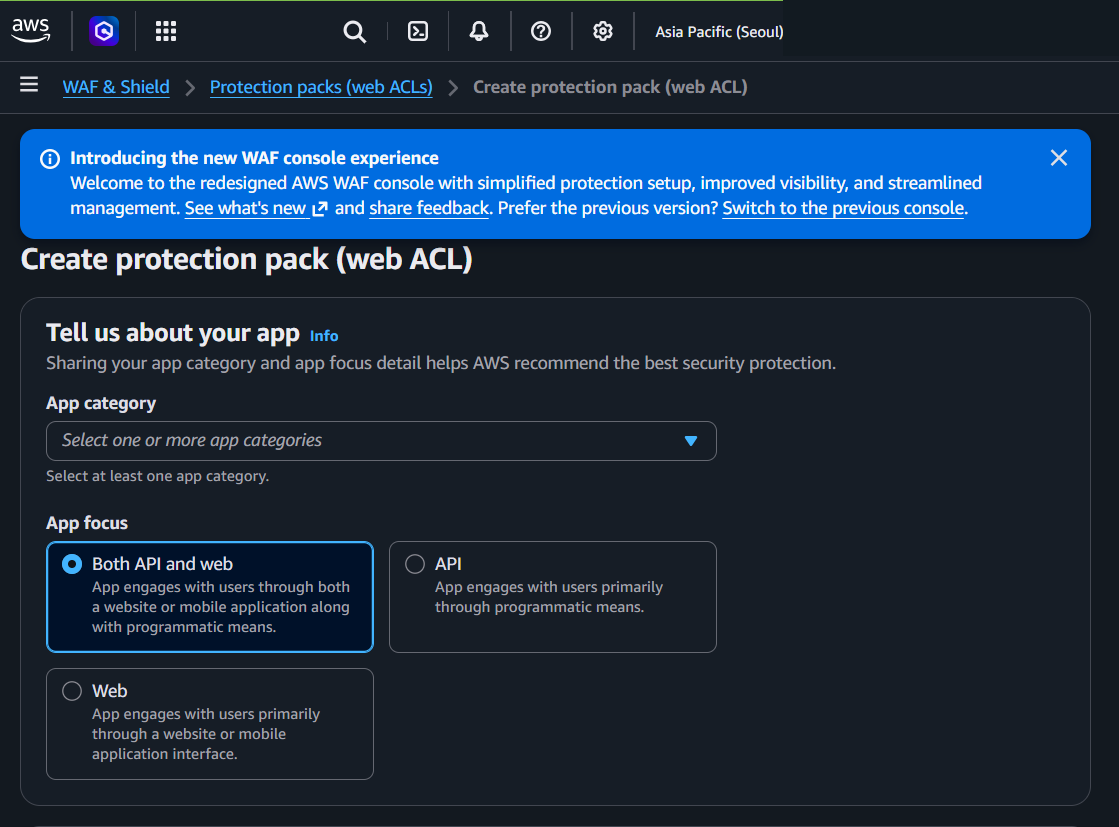
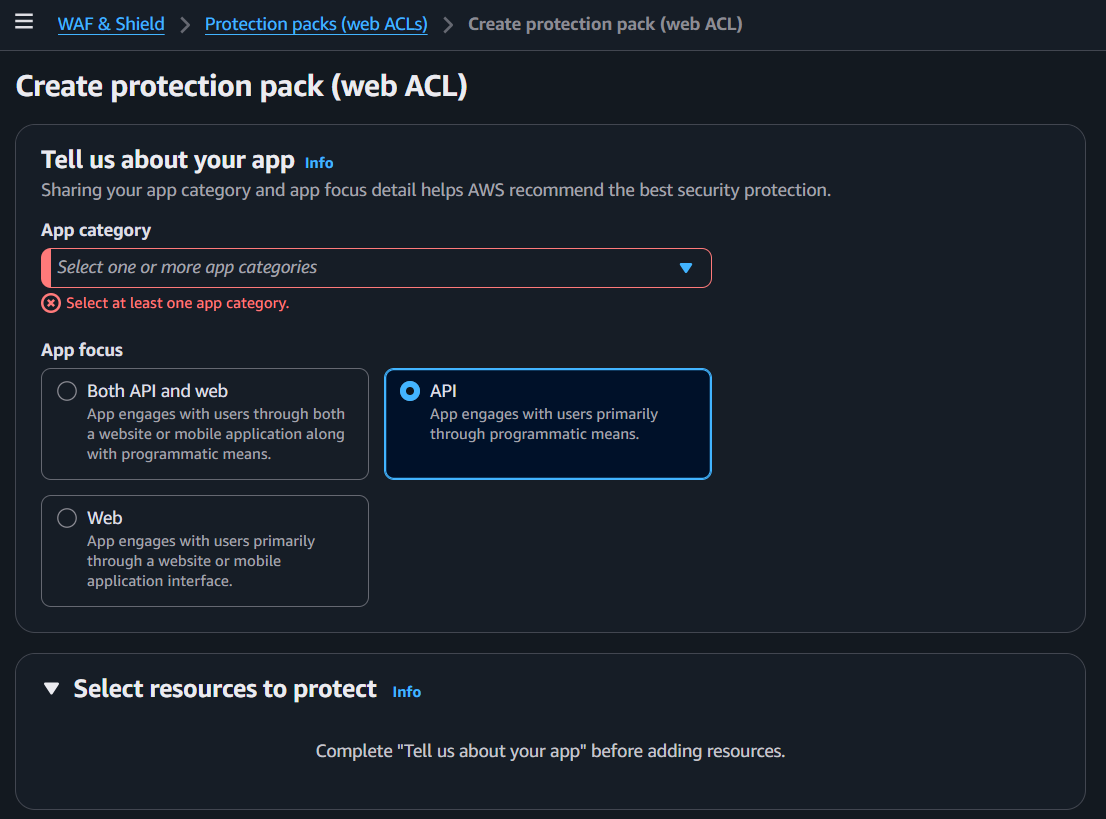
docs(study): update waf and storage study materials

diff --git a/aws101/aws_services_kiro/21_amazon_cloudfront.md b/aws101/aws_services_kiro/21_amazon_cloudfront.md
@@ -1,33 +1,154 @@
-# Amazon CloudFront
+# Amazon CloudFront - AWS Console Guide
 
-## 1. Definition
+## Official Documentation
+- [Amazon CloudFront Documentation](https://docs.aws.amazon.com/cloudfront/)
+- [CloudFront Pricing](https://aws.amazon.com/cloudfront/pricing/)
 
-## 2. Category / Where It Fits
+## What It Is
+**CloudFront** is AWS's CDN (Content Delivery Network). It caches your content at 600+ edge locations worldwide so users get responses from the nearest location instead of your origin server far away.
 
-## 3. When To Use It
+CloudFront is a **global** service (not regional).
 
-## 4. What It Does
+## Console Access
+- AWS Console → CloudFront → Distributions
+- Breadcrumb: CloudFront > Distributions
 
-## 5. What AWS Manages vs What You Manage
-### AWS Manages
-- 
-### You Manage
-- 
+---
 
-## 6. Console Creation Considerations
+## How CloudFront Works
 
-## 7. Cost Shape
+```
+User in Seoul → CloudFront Edge (Seoul) → Origin (S3, ALB, EC2, etc.)
+                 ↑ cached here              ↑ source of truth
+                 fast (nearby)              only hit on cache miss
+```
 
-## 8. Availability / Downtime Notes
+1. User requests content (e.g., image, HTML, API response)
+2. Request goes to nearest CloudFront edge location
+3. **Cache hit**: edge has it → return immediately (fast)
+4. **Cache miss**: edge fetches from origin → caches it → returns to user
+5. Next request from same region → served from cache
 
-## 9. Similar Services and Differences
+---
 
-## 10. Related Services
+## Common Pattern: S3 Static Website + CloudFront
 
-## 11. Simple Example
+The standard way to host static websites (React, Vue, Next.js static export, plain HTML) on AWS:
 
-## 12. Common Mistakes
+```
+Upload to S3 → CloudFront distribution → Users worldwide
+(origin)        (CDN + HTTPS + caching)    (fast access)
+```
 
-## 13. One-Line Summary
+### Why not just use S3 directly?
 
-## 14. Official AWS Docs
+| | S3 alone | S3 + CloudFront |
+|---|---------|----------------|
+| **Speed** | Single region, far users = slow | 600+ edge locations = fast |
+| **HTTPS** | S3 website endpoint = HTTP only | ✅ Free HTTPS with ACM certificate |
+| **Custom domain** | Complicated | Easy (Route 53 + ACM) |
+| **Caching** | None | Edge caching, reduces S3 requests + cost |
+| **Security** | Must make bucket public | OAC — bucket stays private, only CloudFront can access |
+
+### OAC (Origin Access Control)
+
+```
+Without OAC:  S3 bucket must be public     ← bad, anyone can access S3 directly
+With OAC:     S3 bucket stays private      ← good
+              Only CloudFront can read it
+              Users can't bypass CloudFront to hit S3 directly
+```
+
+OAC is the recommended way to connect CloudFront to S3. It replaces the older OAI (Origin Access Identity).
+
+---
+
+## Origin Types
+
+CloudFront can serve content from multiple origin types:
+
+| Origin | Use case |
+|--------|----------|
+| **S3 bucket** | Static files, images, videos, website hosting |
+| **ALB** | Dynamic web apps, APIs |
+| **EC2** | Custom web server (must be public or via ALB) |
+| **API Gateway** | REST/HTTP APIs |
+| **MediaStore / MediaPackage** | Video streaming |
+| **Custom origin (any HTTP server)** | On-premises server, external URL |
+
+---
+
+## Key Concepts
+
+### Distribution
+- The main CloudFront resource — a configuration that tells CloudFront where to get content and how to serve it
+- Each distribution gets a domain: `d1234abcd.cloudfront.net`
+- Can map to custom domain via Route 53 + ACM certificate
+
+### TTL (Time To Live)
+- How long CloudFront caches content at the edge before checking the origin again
+- Default: 24 hours
+- Short TTL (e.g., 60s) = fresher content, more origin requests
+- Long TTL (e.g., 7 days) = faster, cheaper, but stale content risk
+- Can invalidate cache manually (costs per invalidation path)
+
+### Cache Behaviors
+- Rules that define how CloudFront handles different URL patterns
+- Example: `/api/*` → forward to ALB (no cache), `/images/*` → cache from S3 (long TTL)
+
+### Edge Locations vs Regional Edge Caches
+- **Edge locations** (600+) — closest to users, first cache layer
+- **Regional edge caches** (13) — between edge and origin, second cache layer for less popular content
+
+---
+
+## CloudFront vs ElastiCache
+
+| | CloudFront | ElastiCache |
+|---|-----------|-------------|
+| **What** | CDN — caches HTTP responses at edge | In-memory cache inside your VPC |
+| **Where** | Between user and your server | Between your app and your DB |
+| **Caches** | Static files, API responses, web pages | DB query results, sessions, computed data |
+| **For** | End users (reduce latency) | Application (reduce DB load) |
+
+---
+
+## Pricing
+
+**Source:** [CloudFront Pricing](https://aws.amazon.com/cloudfront/pricing/)
+
+- **Data transfer out to internet**: $0.085/GB (first 10 TB/month, US/Europe)
+- **HTTP requests**: $0.0075/10K requests
+- **HTTPS requests**: $0.01/10K requests
+- **Free tier**: 1 TB data transfer out + 10M requests/month (always free, not 12-month)
+
+Additional costs:
+- Cache invalidation: first 1,000 paths/month free, then $0.005/path
+- Real-time logs: per log line
+- CloudFront Functions / Lambda@Edge: per request + compute
+
+---
+
+## Precautions
+
+### ⚠ MAIN PRECAUTION: Cache Invalidation Takes Time and Costs Money
+- If you update content at origin, CloudFront still serves old cached version until TTL expires
+- Manual invalidation: `/*` invalidates everything but costs per path
+- Better approach: use versioned file names (e.g., `app.v2.js`) so new URL = new cache
+
+### 1. Use OAC for S3 Origins
+- Never make S3 bucket public just for CloudFront
+- OAC keeps bucket private, only CloudFront can access
+
+### 2. Always Use HTTPS
+- Free ACM certificate for custom domains
+- Redirect HTTP → HTTPS in CloudFront settings
+
+### 3. Don't Cache Everything
+- Static assets (images, CSS, JS) → cache aggressively
+- API responses → cache carefully or not at all (depends on data freshness needs)
+- Authenticated content → usually don't cache
+
+### 4. CloudFront is Global, WAF Scope Matters
+- To attach WAF to CloudFront, the Web ACL must be created in **us-east-1** (Global scope)
+- Regional Web ACLs (for ALB) won't work with CloudFront

diff --git a/aws101/aws_services_kiro/18_aws_waf.md b/aws101/aws_services_kiro/18_aws_waf.md
@@ -44,38 +44,62 @@ While Shield stops DDoS volume floods, WAF inspects the **content** of each requ
 
 ## Create Protection Pack (Web ACL) - Console Flow
 
-![Create Protection Pack - App Info](../images/aws_console/waf1.png)
+> Note: AWS recently redesigned the WAF console. It now uses a "protection pack" wizard that guides you through app profiling → resource selection → rule configuration.
 
-### Tell us about your app
-- Sharing app category and focus helps AWS recommend the best security protection
+### Step 1: Tell us about your app
 
-**App category** — Select one or more app categories (dropdown)
+![WAF - Tell us about your app, App focus](../images/aws_console/waf1.png)
 
-**App focus (3 options):**
-- **Both API and web** (default) — Website/mobile app + programmatic access
-- **API** — Primarily programmatic access
-- **Web** — Primarily website or mobile app interface
+**App category** (required, multi-select dropdown):
 
-![Create Protection Pack - Resources and Protections](../images/aws_console/waf2.png)
+![WAF - App category dropdown options](../images/aws_console/waf2.png)
 
-### Select resources to protect (expandable)
-- Choose which AWS resources this Web ACL protects
+- Content & publishing systems
+- E-commerce & transaction platforms
+- Enterprise & business applications
+- API & integration services
+- Media & file processing
+- Other
+
+AWS uses your selection to recommend the best protection rules. Select all that apply.
+
+**App focus** (3 options):
+- **Both API and web** — website/mobile app + programmatic access
+- **API** (selected in screenshot) — primarily programmatic access
+- **Web** — primarily website or mobile app interface
+
+**Select resources to protect** (expandable):
 - Must complete "Tell us about your app" first
+- Choose which AWS resources this Web ACL protects (CloudFront, ALB, API Gateway, etc.)
 
-### Choose initial protections (expandable)
-- AWS WAF offers various protection packages of WAF rules
-- Rule configurations based on security best practices
+### Step 2: Select resources to protect
+
+![WAF - Select resources to protect](../images/aws_console/waf3.png)
+
+- Search by resource name or type
+- "Add resources" button to browse regional or global resources
+- Can add regional resources (ALB, API Gateway) or global resources (CloudFront)
+- "Skip for now" — can attach resources later
+- "No resources to display" if none added yet
+
+### Step 3: Choose protections, Name, Customize
+
+![WAF - Choose protections, Name, Customize](../images/aws_console/waf4.png)
+
+**Choose initial protections** (expandable):
+- AWS WAF offers protection packages (bundles of WAF rules) based on security best practices
 - Can choose individual rules instead of packages
-- Must complete "Tell us about your app" and "Select resources to protect" first
+- Must complete previous sections first
 
-### Name and describe (expandable)
+**Name and describe** (expandable):
 - Name and description for your Web ACL
 - Must complete previous sections first
 
-### Customize protection pack (web ACL) - optional (expandable)
-- Advanced customization options
+**Customize protection pack (web ACL)** (optional, expandable):
+- Configure rules and define how requests will be logged
+- Advanced customization — add custom rules, change rule order, set default action
 
-**Action buttons:** Cancel / **Create protection pack (web ACL)**
+**Cancel / Create protection pack (web ACL)** buttons
 
 ---
 

diff --git a/aws101/aws_services_kiro/19_amazon_s3.md b/aws101/aws_services_kiro/19_amazon_s3.md
@@ -165,6 +165,46 @@ Encryption type:
 - 법원 공문서, 장기 보관 → **Glacier Deep Archive**
 - Don't know access pattern → **Intelligent-Tiering**
 
+### Intelligent-Tiering — How It Works
+
+Intelligent-Tiering is one storage class with multiple tiers inside. AWS automatically moves objects between tiers based on access patterns — you don't manage it.
+
+```
+S3 Intelligent-Tiering (one storage class, multiple tiers inside)
+├── Frequent Access tier        ← objects start here
+├── Infrequent Access tier      ← auto-moved after 30 days no access
+├── Archive Instant Access tier ← auto-moved after 90 days no access
+├── Archive Access tier         ← optional, you enable, after 90+ days
+└── Deep Archive Access tier    ← optional, you enable, after 180+ days
+```
+
+- Object accessed again → automatically moves back to Frequent Access (no retrieval fee)
+- Monitoring fee: $0.0025 per 1,000 objects/month
+- Best for: larger objects with unpredictable access patterns
+- Not ideal for: lots of tiny files (monitoring fee adds up)
+
+| | Manual (Standard/IA/Glacier) | Intelligent-Tiering |
+|---|---|---|
+| **Who decides** | You, via lifecycle rules | AWS, automatically |
+| **Retrieval fee** | IA/Glacier charge per-access | No retrieval fee when moving back |
+| **Monitoring fee** | None | $0.0025/1K objects/month |
+
+### Storage Class Is Per Object, Not Per Bucket
+
+Within the same bucket, different objects can have different storage classes:
+
+```
+Bucket A
+├── photo.jpg    → Standard
+├── report.pdf   → Intelligent-Tiering
+└── archive.zip  → Glacier Deep Archive
+```
+
+You set storage class:
+- At upload time (per object)
+- Via **lifecycle rules** on the bucket (e.g., "move all objects to IA after 30 days")
+- Or use Intelligent-Tiering and let AWS handle it automatically
+
 ---
 
 ## Key Concepts

diff --git a/computing/computing_kiro/01_architecture.md b/computing/computing_kiro/01_architecture.md
@@ -250,6 +250,23 @@ AWS Graviton2/Graviton3 (ARM) vs x86:
 
 ## Summary for AWS
 
+### Architecture + OS Combinations
+
+Architecture (CPU) and OS are two separate choices. Not all combinations exist on AWS:
+
+| Architecture | Linux | Windows | macOS |
+|---|---|---|---|
+| **x86_64 (Intel/AMD)** | ✅ Most common | ✅ .NET, AD, SQL Server | ✅ mac1.metal |
+| **arm64 (Graviton)** | ✅ Best price/performance | ❌ Not available | — |
+| **arm64 (Apple M1/M2)** | — | — | ✅ mac2.metal |
+
+OS cost on EC2:
+- **Linux** — free (no OS license cost)
+- **Windows** — extra cost (license included in hourly price)
+- **macOS** — extra cost (dedicated Mac hardware, 24h minimum)
+
+Think of it as: architecture = engine type (diesel vs electric), OS = car body (sedan vs truck). You need both.
+
 **When choosing AMI, look for:**
 - ✅ **64-bit** (not 32-bit)
 - ✅ **ARM (Graviton)** for cost savings (if compatible)
